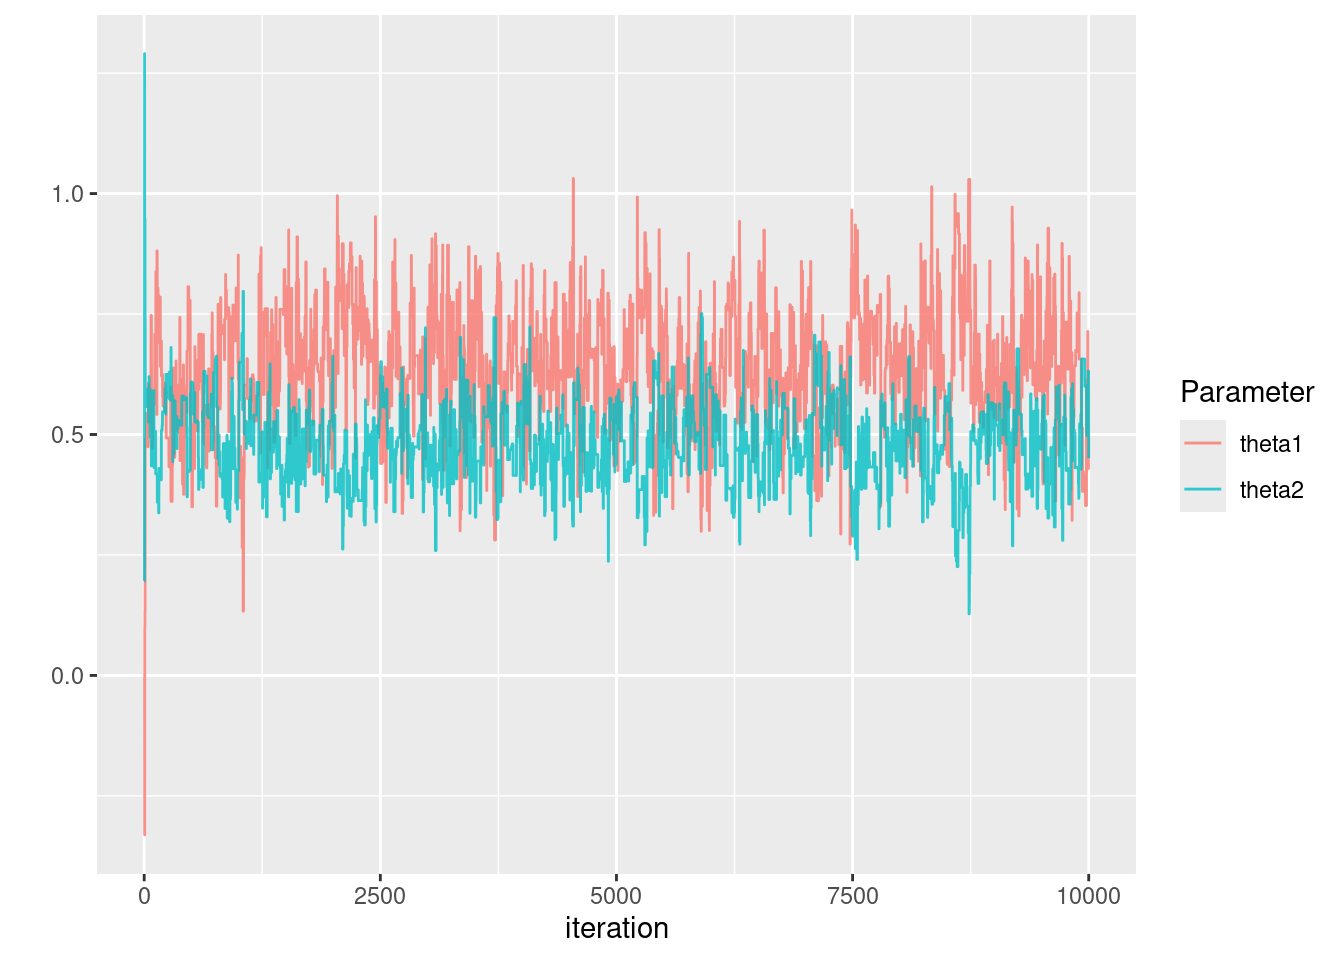
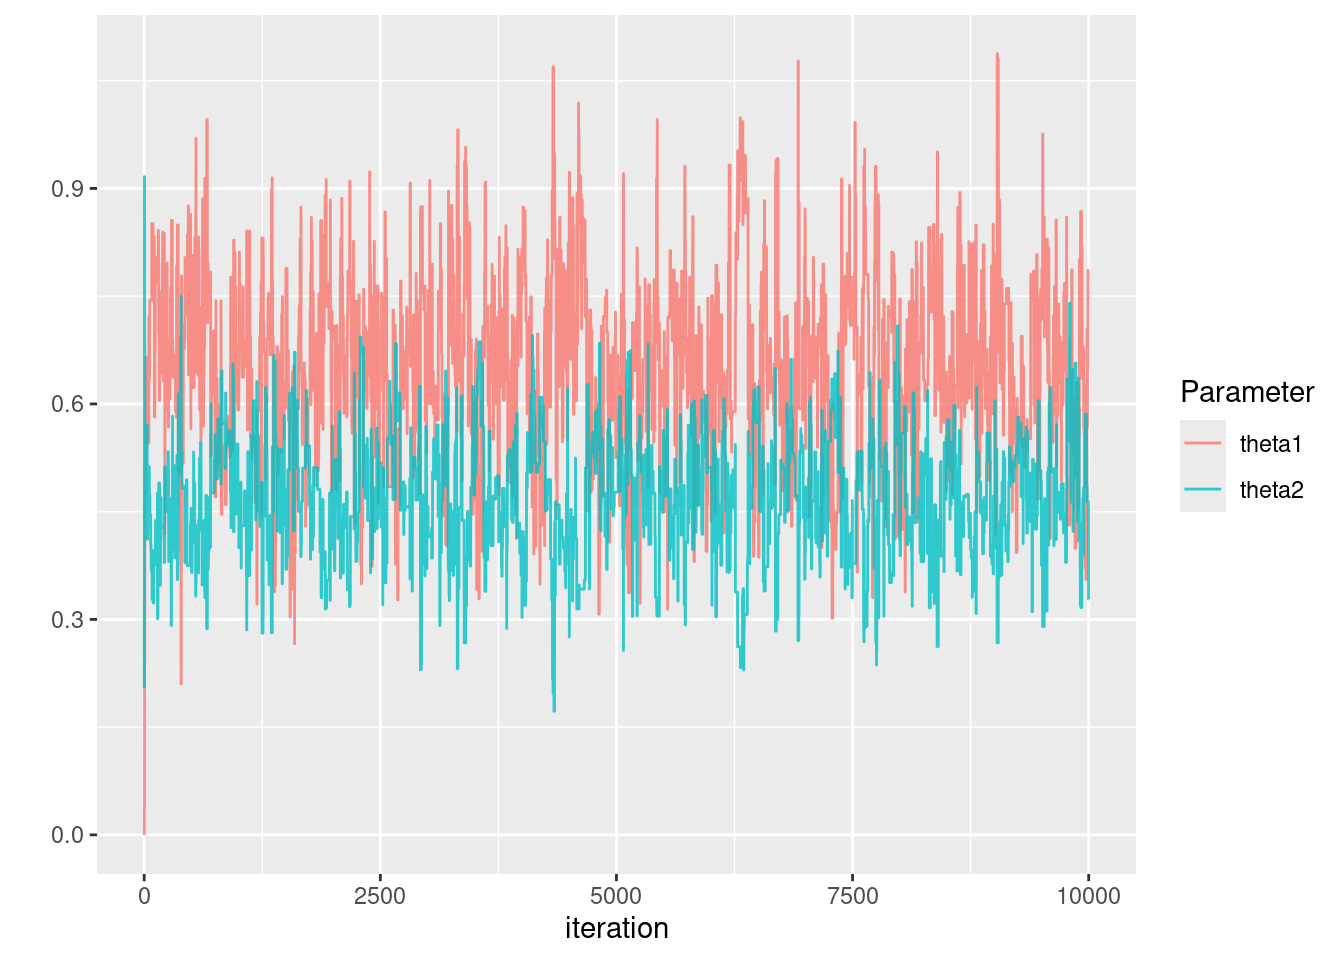
add tmrw lecture

diff --git a/docs/notes/lec09-MCMC.html b/docs/notes/lec09-MCMC.html
@@ -223,7 +223,8 @@ window.Quarto = {
 <div class="cell">
 <details class="code-fold">
 <summary>View libraries used in these notes</summary>
-<div class="sourceCode cell-code" id="cb1"><pre class="sourceCode r code-with-copy"><code class="sourceCode r"><span id="cb1-1"><a href="#cb1-1" aria-hidden="true" tabindex="-1"></a><span class="fu">library</span>(tidyverse)</span></code><button title="Copy to Clipboard" class="code-copy-button"><i class="bi"></i></button></pre></div>
+<div class="sourceCode cell-code" id="cb1"><pre class="sourceCode r code-with-copy"><code class="sourceCode r"><span id="cb1-1"><a href="#cb1-1" aria-hidden="true" tabindex="-1"></a><span class="fu">library</span>(tidyverse)</span>
+<span id="cb1-2"><a href="#cb1-2" aria-hidden="true" tabindex="-1"></a><span class="fu">library</span>(coda)</span></code><button title="Copy to Clipboard" class="code-copy-button"><i class="bi"></i></button></pre></div>
 </details>
 </div>
 <section id="practice-example" class="level1">
@@ -236,7 +237,7 @@ Y_i | \theta_1, \theta_2 &amp;\sim N(\theta_1 + \theta_2 x_i, 1)\\
 \end{aligned}
 \]</span></p>
 <div class="cell">
-<div class="sourceCode cell-code" id="cb2"><pre class="sourceCode r code-with-copy"><code class="sourceCode r"><span id="cb2-1"><a href="#cb2-1" aria-hidden="true" tabindex="-1"></a>bass <span class="ot">=</span> <span class="fu">read_csv</span>(<span class="st">"https://sta360-fa24.github.io/data/bass.csv"</span>)</span>
+<div class="sourceCode cell-code" id="cb2"><pre class="sourceCode r code-with-copy"><code class="sourceCode r"><span id="cb2-1"><a href="#cb2-1" aria-hidden="true" tabindex="-1"></a>bass <span class="ot">=</span> <span class="fu">read_csv</span>(<span class="st">"https://sta602-sp26.github.io/data/bass.csv"</span>)</span>
 <span id="cb2-2"><a href="#cb2-2" aria-hidden="true" tabindex="-1"></a>y <span class="ot">=</span> bass<span class="sc">$</span>mercury</span>
 <span id="cb2-3"><a href="#cb2-3" aria-hidden="true" tabindex="-1"></a>x <span class="ot">=</span> bass<span class="sc">$</span>weight</span></code><button title="Copy to Clipboard" class="code-copy-button"><i class="bi"></i></button></pre></div>
 </div>
@@ -327,13 +328,13 @@ Y_i | \theta_1, \theta_2 &amp;\sim N(\theta_1 + \theta_2 x_i, 1)\\
 <tbody>
 <tr class="odd">
 <td><span class="math inline">\(\theta_1\)</span></td>
-<td>0.64</td>
-<td>(0.4, 0.87)</td>
+<td>0.65</td>
+<td>(0.41, 0.91)</td>
 </tr>
 <tr class="even">
 <td><span class="math inline">\(\theta_2\)</span></td>
-<td>0.48</td>
-<td>(0.33, 0.65)</td>
+<td>0.47</td>
+<td>(0.29, 0.64)</td>
 </tr>
 </tbody>
 </table>
@@ -418,13 +419,13 @@ F-statistic: 74.77 on 1 and 169 DF,  p-value: 3.929e-15</code></pre>
 Autocorrelations of series 'THETA1', by lag
 
     0     1     2     3     4     5     6     7     8     9    10    11    12 
-1.000 0.914 0.847 0.792 0.748 0.706 0.670 0.637 0.607 0.576 0.549 0.523 0.499 
+1.000 0.913 0.841 0.781 0.729 0.684 0.645 0.611 0.582 0.553 0.526 0.503 0.481 
    13    14    15    16    17    18    19    20    21    22    23    24    25 
-0.477 0.453 0.430 0.410 0.392 0.374 0.357 0.344 0.332 0.322 0.312 0.299 0.286 
+0.460 0.440 0.419 0.397 0.377 0.357 0.338 0.322 0.305 0.291 0.279 0.268 0.257 
    26    27    28    29    30    31    32    33    34    35    36    37    38 
-0.277 0.270 0.260 0.250 0.241 0.232 0.225 0.218 0.212 0.205 0.197 0.188 0.179 
+0.245 0.234 0.222 0.210 0.200 0.191 0.184 0.177 0.170 0.165 0.160 0.156 0.152 
    39    40 
-0.172 0.165 </code></pre>
+0.148 0.145 </code></pre>
 </div>
 </div>
 <p>The higher the autocorrelation, the more samples we need to obtain a given level of precision for our approximation. One way to state how precise our approximation is, is with <em>effective sample size</em>.</p>
@@ -432,11 +433,10 @@ Autocorrelations of series 'THETA1', by lag
 <li><strong>effective sample size</strong> (ESS): intuitively this is the effective number of exact samples “contained” in the Markov chain (see <a href="https://arxiv.org/pdf/1701.02434.pdf">Betancourt 2018</a>). For further reading on ESS, see <a href="https://mc-stan.org/docs/reference-manual/effective-sample-size.html">the stan manual</a>. In practice we use <code>coda::effectiveSize()</code> function to compute. Example:</li>
 </ul>
 <div class="cell">
-<div class="sourceCode cell-code" id="cb8"><pre class="sourceCode r code-with-copy"><code class="sourceCode r"><span id="cb8-1"><a href="#cb8-1" aria-hidden="true" tabindex="-1"></a><span class="fu">library</span>(coda)</span>
-<span id="cb8-2"><a href="#cb8-2" aria-hidden="true" tabindex="-1"></a><span class="fu">effectiveSize</span>(THETA1)</span></code><button title="Copy to Clipboard" class="code-copy-button"><i class="bi"></i></button></pre></div>
+<div class="sourceCode cell-code" id="cb8"><pre class="sourceCode r code-with-copy"><code class="sourceCode r"><span id="cb8-1"><a href="#cb8-1" aria-hidden="true" tabindex="-1"></a>coda<span class="sc">::</span><span class="fu">effectiveSize</span>(THETA1)</span></code><button title="Copy to Clipboard" class="code-copy-button"><i class="bi"></i></button></pre></div>
 <div class="cell-output cell-output-stdout">
 <pre><code>    var1 
-293.4412 </code></pre>
+299.9338 </code></pre>
 </div>
 </div>
 <p>More precisely, the <strong>effective sample size</strong> (ESS) is the value <span class="math inline">\(S_{eff}\)</span> such that</p>

diff --git a/docs/index.html b/docs/index.html
@@ -337,7 +337,7 @@ ul.task-list li input[type="checkbox"] {
 <td style="text-align: left;">Thu Feb 26</td>
 <td style="text-align: left;">MCMC diagnostics</td>
 <td style="text-align: center;">Ch. 6, 10</td>
-<td style="text-align: center;"></td>
+<td style="text-align: center;"><a href="./notes/lec09-MCMC.html">🗒</a></td>
 <td style="text-align: left;"></td>
 </tr>
 <tr class="even">
